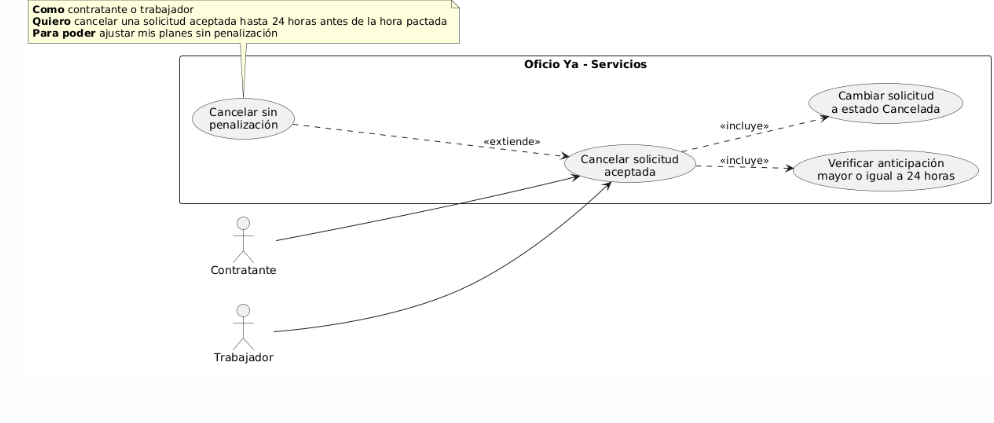
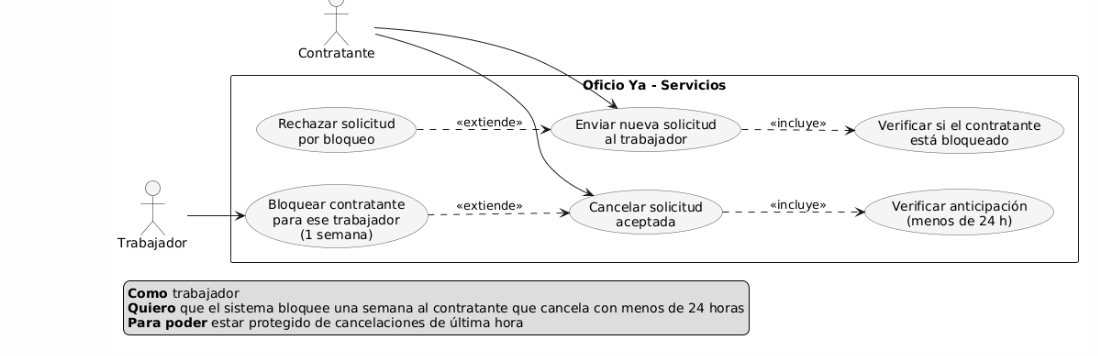
cambio a paths de las imágenes en README y requirements.md

diff --git a/src/main/resources/docs/requirements/requirements.md b/src/main/resources/docs/requirements/requirements.md
@@ -50,7 +50,7 @@ El sistema de service OficioYa debe tener:
 | **Precondiciones** | Para que el sistema cumpla con este requerimiento, el contratante ya debe de haber iniciado sesión. |
 | **Actor** | Contratante |
 | **Flujo principal** | 1. El contratante escoge crear una nueva solicitud.<br>2. El contratante agrega la descripción del servicio que se quiere hacer.<br>3. El contratante agrega opcionalmente una o más fotografías del trabajo a hacer.<br>4. El usuario escoge el barrio donde se encuentra y la dirección.<br>5. EL usuario agrega la fecha y la hora en la que se va a realizar el trabajo.<br>6. El usuario termina y confirma los datos de la solicitud.<br>7. El sistema verifica que todos los datos de la solicitud sean correctos. |
-| **Diagrama de caso de uso** | ![Diagrama caso uso - 1](../images/DCU-REQ-SRV-001) |
+| **Diagrama de caso de uso** | ![Diagrama caso uso - 1](../images/DCU-REQ-SRV-001.png) |
 | **Poscondiciones** | Se espera como resultado la solicitud lista para enviar con los datos verificados. |
 
 ### 2.2 Requerimiento Funcional 2
@@ -63,7 +63,7 @@ El sistema de service OficioYa debe tener:
 | **Precondiciones** | Para que el sistema cumpla con este requerimiento, la solicitud ya debe de estar creada y verificada, los datos del barrio son correctos. |
 | **Actor** | Contratante y trabajadores |
 | **Flujo principal** | 1. El contratante termina de llenar la solicitud.<br>2. El sistema verifica los datos de la solicitud.<br>3. El sistema lleva al contratante a escoger los trabajadores.<br>4. El sistema le muestra los trabajadores disponibles para esa zona.<br>5. El contratante escoge uno o varios trabajadores.<br>6. El contratante confirma los trabajadores conocidos. |
-| **Diagrama de caso de uso** | ![Diagrama caso uso - 2](../images/DCU-REQ-SRV-002) |
+| **Diagrama de caso de uso** | ![Diagrama caso uso - 2](../images/DCU-REQ-SRV-002.png) |
 | **Poscondiciones** | Se espera como resultado los trabajadores que el contratante escogió verificados y las personas listas para enviar las solicitudes. |
 
 ### 2.3 Requerimiento Funcional 3
@@ -76,7 +76,7 @@ El sistema de service OficioYa debe tener:
 | **Precondiciones** | Para que el sistema cumpla con este requerimiento, la solicitud ya debe de estar completada y verificada, el usuario ya escogió los trabajadores y el sistema ya verificó estos trabajadores. |
 | **Actor** | Contratante y trabajadores |
 | **Flujo principal** | 1. El contratante termina de escoger los trabajadores.<br>2. El contratante confirma que quiere enviar la/s solicitud/es<br>3. El sistema envía las solicitudes a los trabajadores.<br>4. El sistema envía una notificación a los trabajadores. |
-| **Diagrama de caso de uso** | ![Diagrama caso uso - 3](../images/DCU-REQ-SRV-003) |
+| **Diagrama de caso de uso** | ![Diagrama caso uso - 3](../images/DCU-REQ-SRV-003.png) |
 | **Poscondiciones** | Se espera como resultado que las solicitudes por separado se hayan creado y enviado a cada trabajador, y que a cada uno le llegue una notificación de una nueva solicitud. |
 <!--
 ### 2.4 Requerimiento Funcional 4
@@ -115,7 +115,7 @@ El sistema de service OficioYa debe tener:
 | **Precondiciones** | Para que el sistema cumpla con este requerimiento, las solicitudes a los demás trabajadores ha sido enviada, más de un trabajador aceptó la solicitud antes de que se expirara. |
 | **Actor** | Contratante y trabajadores |
 | **Flujo principal** | 1. El contratante envía una solicitud a más de un trabajador.<br>2. Más de un trabajador acepta la solicitud antes de que expirara.<br>3. El sistema cambia la solicitud a estado Conflicto.<br>4. El sistema le envía una notificación al contratante de que la solicitud fue aceptada por más de un trabajador.<br>5. El contratante entra a mirar la solicitud.<br>6. El sistema le muestra al contratante los trabajadores que aceptaron la solicitud.<br>7. El contrante escoge un trabajador para que realice el trabajo.<br>8. El sistema cancela las solicitudes de los contratantes no escogidos y la de los que aún no han aceptado la solicitud. |
-| **Diagrama de caso de uso** | ![Diagrama caso uso - 6](../images/DCU-REQ-SRV-006) |
+| **Diagrama de caso de uso** | ![Diagrama caso uso - 6](../images/DCU-REQ-SRV-006.png) |
 | **Poscondiciones** | Se espera como resultado que se registre bien la solicitud al trabajador escogido y que ponga en estado 'Cancelada' la solicitud de los trabajadores no escogidos y que aún no han aceptado o rechazado la solicitud. |
 
 ### 2.7 Requerimiento Funcional 7
@@ -128,7 +128,7 @@ El sistema de service OficioYa debe tener:
 | **Precondiciones** | Para que el sistema cumpla con este requerimiento, el trabajo ya debe estarse haciendo, la hora debe ser después de la hora del trabajo. |
 | **Actor** | Contratante y trabajador |
 | **Flujo principal** | 1. El trabajador termina el trabajo.<br>2. El trabajador entra al sistema para terminar el trabajo.<br>3. El trabajador escoge terminar el trabajo.<br>4. El sistema hace las verificaciones para poder terminar el trabajo.<br>5. El sistema marca el trabajo como cumplida.<br>6. El sistema se conecta con notificaciones y le envía una notificación al contratante. |
-| **Diagrama de caso de uso** | ![Diagrama caso uso - 7](../images/DCU-REQ-SRV-007) |
+| **Diagrama de caso de uso** | ![Diagrama caso uso - 7](../images/DCU-REQ-SRV-007.png) |
 | **Poscondiciones** | Se espera como resultado el trabajo marcado como cumplida y la notificación enviada al contratante. |
 
 ### 2.8 Requerimiento Funcional 8
@@ -141,7 +141,7 @@ El sistema de service OficioYa debe tener:
 | **Precondiciones** | Para que el sistema cumpla con este requerimiento, el contratante ya debió de haber enviado una solicitud a un trabajador, el trabajador aún no ha aceptado la solicitud que se le ha enviado. |
 | **Actor** | Contratante |
 | **Flujo principal** | 1. El contratante envía una solicitud al trabajador.<br>2. El contratante ve que no ha sido aceptada y decide cancelarla.<br>3. El sistema cambia el estado de la solicitud a cancelada.<br>4. El sistema le envía una notificación al trabajador que la solicitud fue cancelada. |
-| **Diagrama de caso de uso** | ![Diagrama caso uso - 8](../images/DCU-REQ-SRV-008) |
+| **Diagrama de caso de uso** | ![Diagrama caso uso - 8](../images/DCU-REQ-SRV-008.png) |
 | **Poscondiciones** | Se espera como resultado que la solicitud quede en estado cancelada y que se le haya enviado la notificación al trabajador. |
 
 ### 2.9 Requerimiento Funcional 9
@@ -154,7 +154,7 @@ El sistema de service OficioYa debe tener:
 | **Precondiciones** | Para que el sistema cumpla con este requerimiento, la solicitud que se quiere cancelar ya debe de estar aceptada, quedan más de 24 horas antes de la fecha del trabajo. |
 | **Actor** | Contratante y trabajador |
 | **Flujo principal** | **Primer flujo**<br>1. El contratante revisa los trabajos abiertos.<br>2. El contratante escoge un trabajo el cual se realiza dentro de más de 24 horas.<br>3. El contratante elige cancelar la solicitud.<br>4. El sistema cambia el estado de la solicitud a cancelada.<br>5. El sistema envía una notificación al trabajador de que la solicitud fue cancelada.<br>**Segundo flujo**<br>1. El trabajador revisa los trabajos que tiene pendientes.<br>2. El trabajador escoge un trabajo el cual se realiza dentro de más de 24 horas.<br>3. El trabajador escoge cancelar este trabajo.<br>4. El sistema cambia el estado de la solicitud a cancelada.<br>5. El sistema le envía una notificación al contratante de que el trabajo fue cancelado. |
-| **Diagrama de caso de uso** | ![Diagrama caso uso - 9](../images/DCU-REQ-SRV-009) |
+| **Diagrama de caso de uso** | ![Diagrama caso uso - 9](../images/DCU-REQ-SRV-009.png) |
 | **Poscondiciones** | Se espera como resultado la solicitud en estado cancelada y la notificación enviada al contratante o trabajador. |
 
 ### 2.10 Requerimiento Funcional 10
@@ -167,7 +167,7 @@ El sistema de service OficioYa debe tener:
 | **Precondiciones** | Para que el sistema cumpla con este requerimiento, la solicitud ya debe haber sido aceptada, faltan menos de 24 horas para que se realice el trabajo. |
 | **Actor** | Contratante y trabajador |
 | **Flujo principal** | 1. El contratante revisa los trabajos abiertos.<br>2. El contratante escoge un trabajo que se realiza en menos de 24 horas.<br>3. El contrantante cancela el trabajo.<br>4. El sistema verifica si faltan menos de 24 horas para el trabajo.<br>5. El sistema comprueba que faltan menos de 24 horas para el trabajo.<br>6. El sistema bloquea al contrantante de poder enviar una solicitud al trabajador que le canceló el trabajo.<br>7. El sistema le envía una notificación al trabajador de que el trabajo fue cancelado. |
-| **Diagrama de caso de uso** | ![Diagrama caso uso - 10](../images/DCU-REQ-SRV-0010) |
+| **Diagrama de caso de uso** | ![Diagrama caso uso - 10](../images/DCU-REQ-SRV-010.png) |
 | **Poscondiciones** | Se espera como resultado el bloqueo del contratante para enviarle una solicitud de nuevo al mismo trabajador dentro de una semana, la solicitud en estado cancelada y la notificación enviada al trabajador. |
 
 ### 2.11 Requerimiento Funcional 11
@@ -180,7 +180,7 @@ El sistema de service OficioYa debe tener:
 | **Precondiciones** | Para que el sistema cumpla con este requerimiento, la solicitud ya debe haber sido aceptada, faltan menos de 24 horas para que se realice el trabajo. |
 | **Actor** | Contratante y trabajador |
 | **Flujo principal** | 1. El trabajador revisa los trabajos pendientes.<br>2. El trabajador escoge un trabajo que se realiza en menos de 24 horas.<br>3. El trabajador cancela el trabajo.<br>4. El sistema verifica si faltan menos de 24 horas para el trabajo.<br>5. El sistema comprueba que faltan menos de 24 horas para el trabajo.<br>6. El sistema resta 0,5 puntos de la reputación del trabajador.<br>7. El sistema le envía una notificación al contratante de que el trabajo fue cancelado. |
-| **Diagrama de caso de uso** | ![Diagrama caso uso - 11](../images/DCU-REQ-SRV-0011) |
+| **Diagrama de caso de uso** | ![Diagrama caso uso - 11](../images/DCU-REQ-SRV-011.png) |
 | **Poscondiciones** | Se espera como resultado el trabajador con una reputación con 0,5 puntos menos y la notificación enviada al contratante. |
 
 ### 2.12 Requerimiento Funcional 12
@@ -193,5 +193,5 @@ El sistema de service OficioYa debe tener:
 | **Precondiciones** | Para que el sistema cumpla con este requerimiento, el usuario debe de haber iniciado sesión. |
 | **Actor** | Contratante y trabajador |
 | **Flujo principal** | 1. El contratante o trabajador van a su propio perfil.<br>2. El contratante o trabajador escoge la opción de ver sus solicitudes.<br>3. El sistema filtra las solicitudes que se pueden ver (todas menos las eliminadas).<br>4. El sistema le muestra las solicitudes al usuario que las está revisando. |
-| **Diagrama de caso de uso** | ![Diagrama caso uso - 12](../images/DCU-REQ-SRV-0012) |
+| **Diagrama de caso de uso** | ![Diagrama caso uso - 12](../images/DCU-REQ-SRV-012.png) |
 | **Poscondiciones** | Se espera como resultado que se puedan ver todas las solicitudes realizadas y que no se muestren las eliminadas. |

diff --git a/README.md b/README.md
@@ -22,7 +22,7 @@
 
 ## Mock Up
 
-![Mock Up Creacion Solicitud](/src/main/resources/docs/images/MockUp-CreacionSolicitud)
-![Mock Up Escoger Trabajadores](/src/main/resources/docs/images/MockUp-EscogerTrabajadores)
-![Mock Up Confirmar Envio](/src/main/resources/docs/images/MockUp-ConfirmarEnvio)
-![Mock Up Solicitud Enviada](/src/main/resources/docs/images/MockUp-SolicitudEnviada)
+![Mock Up Creacion Solicitud](/src/main/resources/docs/images/MockUp-CreacionSolicitud.png)
+![Mock Up Escoger Trabajadores](/src/main/resources/docs/images/MockUp-EscogerTrabajadores.png)
+![Mock Up Confirmar Envio](/src/main/resources/docs/images/MockUp-ConfirmarEnvio.png)
+![Mock Up Solicitud Enviada](/src/main/resources/docs/images/MockUp-SolicitudEnviada.png)
